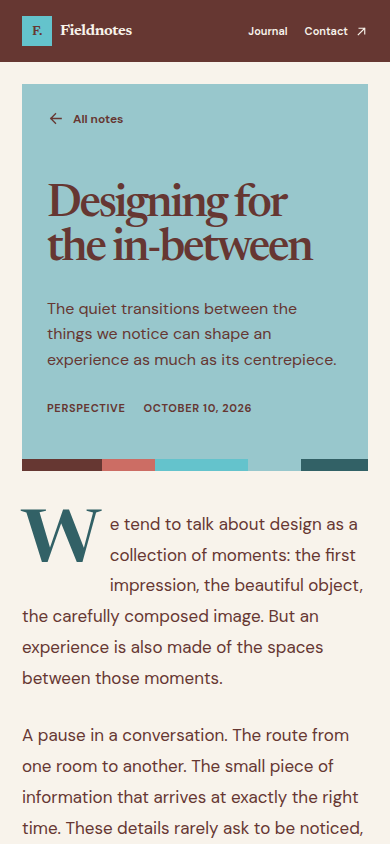
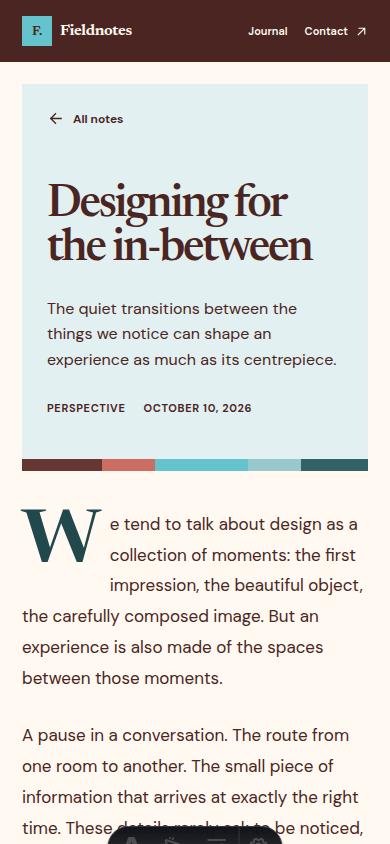
fix: improve palette contrast and color rhythm
Use deeper hue-matched text and lighter warm/cool surfaces to make the editorial pages more legible and visually distinct while preserving the five-color palette.

diff --git a/DESIGN.md b/DESIGN.md
@@ -3,11 +3,17 @@ name: Fieldnotes
 description: An independent journal about design and the everyday.
 colors:
   core-ink: "#663732"
+  deep-ink: "#4A2521"
   warm-coral: "#CC6D64"
+  coral-wash: "#F4D9D5"
   bright-aqua: "#64C3CC"
+  aqua-wash: "#D9EFF0"
   soft-mist: "#98C7CC"
+  mist-wash: "#E3F0F1"
   deep-teal: "#326166"
-  paper: "#f8f3eb"
+  dark-teal: "#21484D"
+  rule-teal: "#6F989B"
+  paper: "#FFF9F1"
 typography:
   display:
     fontFamily: "Newsreader, Georgia, serif"
@@ -37,18 +43,18 @@ spacing:
   compact-home-gutter: "18px"
 components:
   primary-action:
-    backgroundColor: "{colors.core-ink}"
+    backgroundColor: "{colors.deep-ink}"
     textColor: "{colors.paper}"
     typography: "DM Sans, 600, 13px"
     padding: "14px 17px"
   primary-action-hover:
-    backgroundColor: "{colors.deep-teal}"
+    backgroundColor: "{colors.dark-teal}"
     textColor: "{colors.paper}"
   masthead-link:
     textColor: "{colors.paper}"
     typography: "DM Sans, 600, 12px"
   featured-entry:
-    backgroundColor: "{colors.soft-mist}"
+    backgroundColor: "{colors.aqua-wash}"
     padding: "clamp(30px, 4.3vw, 58px) 0"
 ---
 
@@ -58,7 +64,7 @@ components:
 
 **Creative North Star: "The Color Proof Book"**
 
-Fieldnotes pairs oversized Newsreader headlines and flat, confident color plates with the small labels, numbered entries, and registration details of a working proof sheet. The homepage gives that frame the strongest color; the essay itself returns to warm paper, a narrow reading measure, and quiet typography.
+Fieldnotes pairs oversized Newsreader headlines and flat, confident color plates with the small labels, numbered entries, and registration details of a working proof sheet. The homepage sets a warm coral wash against a bright-aqua register; the essay itself returns to warm paper, a narrow reading measure, and quiet typography.
 
 The saved direction contract records “Color Proof Book,” candidate 7 of seven, with seed key `f3bbfd94`. That contract is the only direction provenance verified here; no archived roll receipt was available, so none is claimed. The shipped implementation is evidenced by [`SiteLayout.astro`](src/layouts/SiteLayout.astro), [`index.astro`](src/pages/index.astro), [`[slug].astro`](src/pages/journal/%5Bslug%5D.astro), and the local captures: [desktop](.impeccable/review/desktop.png), [mobile at 390×844](.impeccable/review/mobile.png), and [article mobile at 390×844](.impeccable/review/article-mobile.png). The homepage register stacks beneath the hero copy and fits its plate; the article frame and reading column also fit the mobile capture.
 
@@ -70,24 +76,24 @@ The saved direction contract records “Color Proof Book,” candidate 7 of seve
 
 ## Colors
 
-The five supplied colors form the proof palette; the implementation also uses a warm-paper neutral for the page ground and light text.
+The five supplied colors remain the proof palette. Light surface washes and deeper ink/teal text variants stay within those hues, making the cool and warm plates distinct without sacrificing readable contrast.
 
 ### Primary
-- **Core Ink** (`{colors.core-ink}`): Brand wordmark, primary text, headline, and the primary action surface.
+- **Core Ink** (`{colors.core-ink}`): The canonical brown swatch and proof-register color. Deep Ink (`{colors.deep-ink}`), a darker same-hue text variant, carries body copy, headlines, and the primary action surface.
 
 ### Secondary
-- **Warm Coral** (`{colors.warm-coral}`): A registration accent: the intro plate’s top mark, article register, and the post-link rail.
-- **Deep Teal** (`{colors.deep-teal}`): Deep counterpoint for the closing plate, links, focus contrast, and the reading-progress indicator.
+- **Warm Coral** (`{colors.warm-coral}`): A vivid registration accent in the article register and post-link rail. Its lighter Coral Wash (`{colors.coral-wash}`) provides a warm hero surface behind Deep Ink text.
+- **Deep Teal** (`{colors.deep-teal}`): The canonical teal swatch. Dark Teal (`{colors.dark-teal}`) is used for readable teal text, the closing plate, focus contrast, and the reading-progress indicator.
 
 ### Tertiary
-- **Bright Aqua** (`{colors.bright-aqua}`): Homepage proof plate, wordmark tile, and one of the five register swatches.
-- **Soft Mist** (`{colors.soft-mist}`): Featured journal row, article title frame, register swatch, and divider color.
+- **Bright Aqua** (`{colors.bright-aqua}`): Homepage register panel, wordmark tile, registration detail, and one of the five swatches; Deep Ink on Bright Aqua measures `6.48:1`.
+- **Soft Mist** (`{colors.soft-mist}`): Canonical register swatch. Its Mist Wash (`{colors.mist-wash}`) frames article metadata with Deep Ink at `11.41:1`; Aqua Wash (`{colors.aqua-wash}`) gives the featured journal entry a separate cool tint.
 
 ### Neutral
-- **Warm Paper** (`{colors.paper}`): Site background and light text on the ink and teal header/footer plates.
-- The article body remains on paper; rules use the mist token, while swatch separators use ink at 30% opacity.
+- **Warm Paper** (`{colors.paper}`): Brighter site ground and light text on the deep ink/teal header and footer plates. Deep Ink on Warm Paper measures `12.72:1`.
+- The article body remains on paper. Teal links use Dark Teal (`9.56:1` on paper); hairline rules use a muted teal for definition.
 
-**The Plate-to-Paper Rule.** Let strong color frame discovery and article metadata; return essay prose to the quiet paper ground.
+**The Warm/Cool Proof Rule.** Alternate coral-derived warmth and aqua/mist coolness for page rhythm; keep all small text in the deep ink or teal variants. Original palette values stay visible as swatches and registration marks.
 
 ## Typography
 
@@ -108,9 +114,9 @@ The five supplied colors form the proof palette; the implementation also uses a 
 
 The shared outer shell is centered and capped at `1440px`, with a fluid horizontal gutter (`clamp(22px, 5.2vw, 76px)`). On the homepage at `480px` and below, the shell gutter becomes `18px`. The desktop intro plate is an asymmetric two-column grid (`1.35fr / .75fr`) with the headline and copy first, and the color register opposite. At `760px` and below, it becomes a single column in that order; the register remains full-width within the plate. The supplied 390×844 capture verifies that the stacked register fits.
 
-The latest-writing list follows the hero with a full-bleed mist highlight for the first numbered entry. Its number, editorial copy, and registration-arrow signature occupy separate columns; tighter mobile widths reduce those columns and stack category/date metadata. The closing teal note changes from a horizontal pair to a vertical stack on narrow screens.
+The latest-writing list follows the hero with a full-bleed aqua wash for the first numbered entry. Its number, editorial copy, and registration-arrow signature occupy separate columns; tighter mobile widths reduce those columns and stack category/date metadata. The closing dark-teal note changes from a horizontal pair to a vertical stack on narrow screens.
 
-Article pages reuse the centered shell. The metadata and headline sit in an inset mist frame above a paper reading column capped at `68ch`; at `640px` and below, the frame and title tighten while the prose remains a single readable column. The local article-mobile capture shows the frame and measure fitting within 390×844. The site footer also changes from a horizontal row to a vertical stack at `640px`.
+Article pages reuse the centered shell. The metadata and headline sit in a light mist-wash frame above a paper reading column capped at `68ch`; at `640px` and below, the frame and title tighten while the prose remains a single readable column. The local article-mobile capture shows the frame and measure fitting within 390×844. The site footer also changes from a horizontal row to a vertical stack at `640px`.
 
 **The Narrow Measure Rule.** Keep long-form copy near the implemented `68ch` measure; the plate may be broad, but the essay is not.
 
